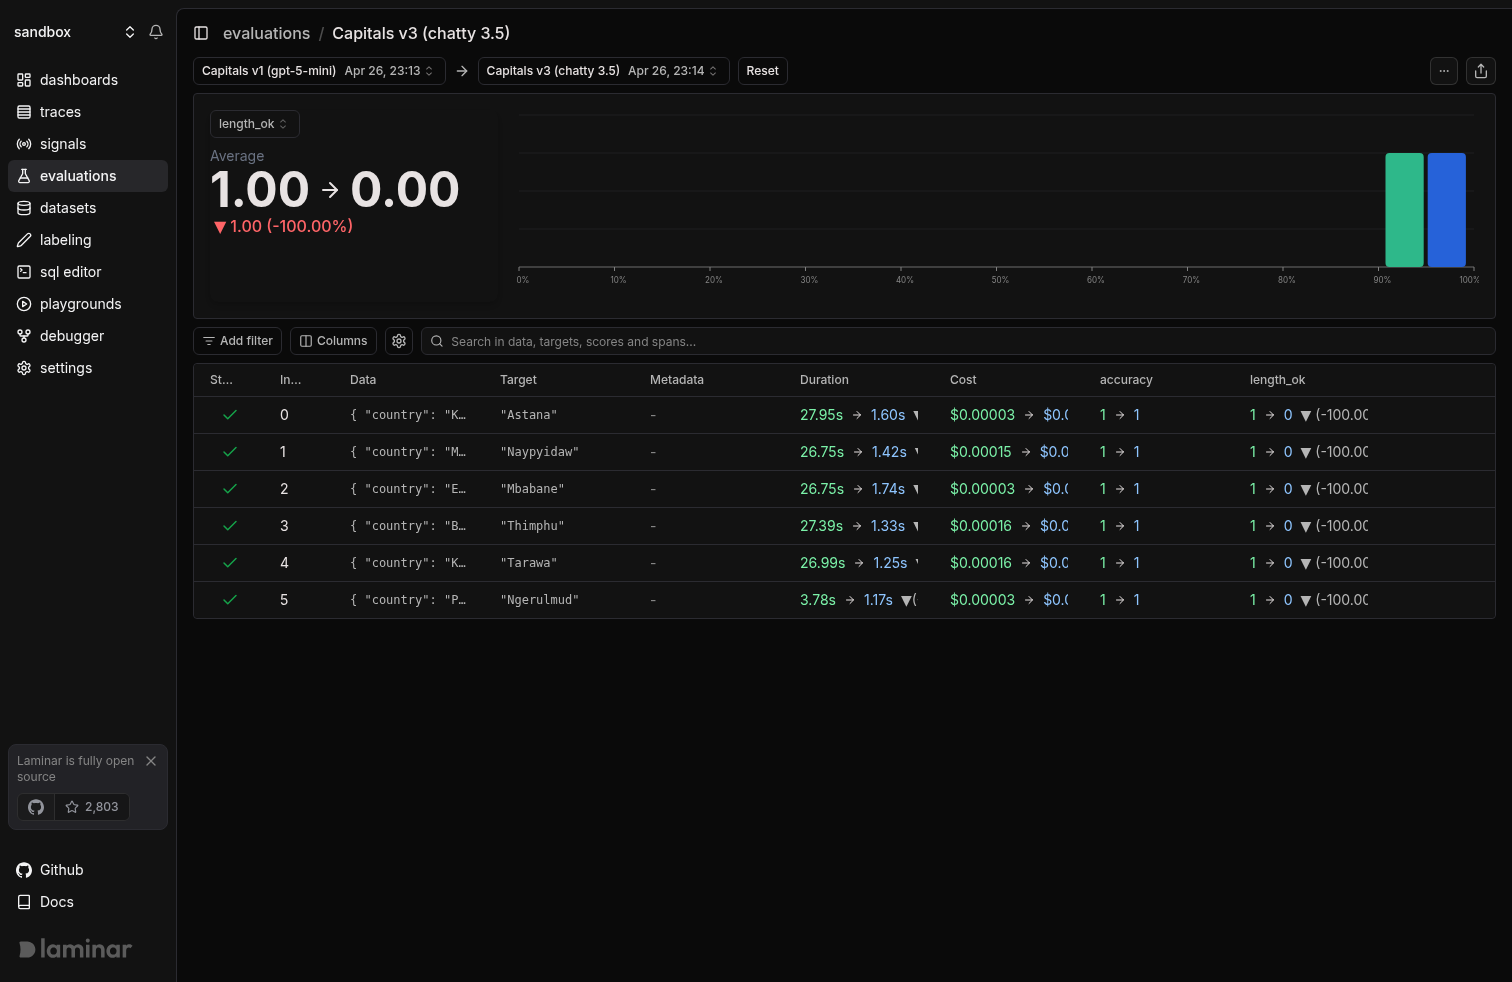
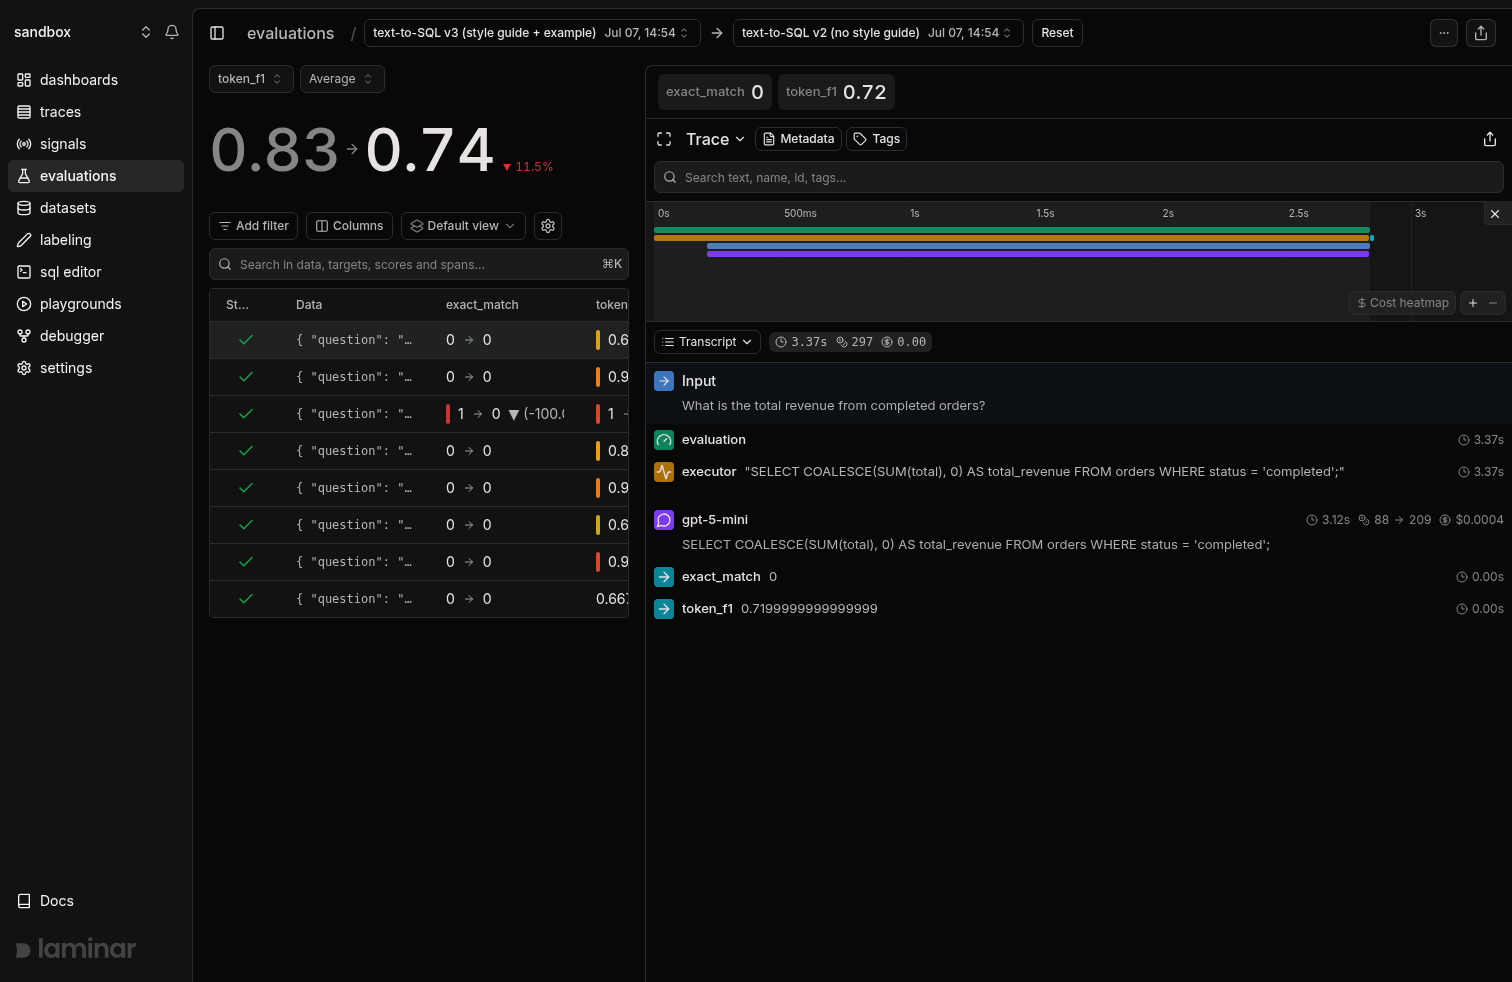
LAM-1921: update evals docs for new UI and trace render templates
- Rewrite comparing-runs for the new group page (groups sidebar,
  aggregation picker, legend toggles, eye icons) and the ?targetId
  compare flow (old -> new score card with delta badge, per-row deltas)
- Add trace-scoped render templates to platform/render-templates:
  span filter, {spans, truncated} payload, 256-span cap, and a worked
  text-to-SQL eval example that diffs model output against target
- Refresh quickstart for the split detail view with score chips
- Retake eval-list, eval-detail, eval-compare screenshots; add
  eval-custom-renderer, trace-view-dropdown, trace-template-dialog;
  drop stale eval-transcript
- Changelog entries for the evals UI refresh and trace templates

diff --git a/CLAUDE.md b/CLAUDE.md
@@ -143,7 +143,9 @@ This is a Mintlify site. Pages are `.mdx`, navigation lives in `docs.json`, reus
 - **Canonical evaluations layout** (under the `Evaluations` group in `docs.json`): `introduction`, `quickstart`, `concepts`, `comparing-runs`, `datasets`, `manual-evaluation`, `self-hosted`. The `human-evaluators.mdx` file still exists on disk and in the SDK but is hidden from the sidebar as of LAM-1505 phase 2 (leave the file; just keep it out of `docs.json` and remove inbound cross-links from the other evaluation pages).
 - **Manual API: TS and Python diverge on trace linking.** Python's `client.evals.update_datapoint` accepts `trace_id`, so the canonical pattern is `create_datapoint` (before the span opens, row visible in UI) → open `EVALUATION` span → `update_datapoint(scores={}, trace_id=Laminar.get_trace_id())` → run executor → `update_datapoint(executor_output, scores)`. TypeScript's `updateDatapoint` does NOT take `traceId` (verified in `@lmnr-ai/lmnr@0.8.20` dist): the only hook is `createDatapoint({..., traceId: Laminar.getTraceId()})` from inside the `EVALUATION` `observe` block. Don't write a TS example that passes `traceId` to `updateDatapoint`; it silently gets ignored.
 - **Python `save_datapoints` requires full `EvaluationResultDatapoint` objects, not dicts** — includes mandatory `id`, `trace_id`, and `executor_span_id` UUIDs. For backfills where those aren't meaningful, loop `create_datapoint` + `update_datapoint` per row instead of calling `save_datapoints` directly. TS `saveDatapoints` takes a looser shape but is still the path for bulk writes when you already have a trace_id per row.
-- **Compare-view capture**: the `?comparedEvaluationId=<uuid>` URL param is NOT respected on direct load; the page redirects to the group list. To capture the comparison view, navigate to the single-evaluation detail page first, then click the **Select compared evaluation** combobox (ref typically `e4` in `agent-browser snapshot`) and pick the other run from the dropdown. Switching the score-metric selector after compare is set works, but clicking it while a compare is active and re-selecting may detach the compared run — re-pick both if the view collapses back to the single-eval layout.
+- **Compare view (July 2026 UI)**: the compare param is `?targetId=<evaluation-uuid>` (the old `?comparedEvaluationId` is gone). Picking a run in the **Select compared evaluation** combobox writes the param; **Reset** clears it. Score card renders `old → new` with a ▲/▼ percent badge (`components/evaluation/run-score-card.tsx`; the aggregation picker is hidden for binary pass/fail distributions); every table row shows per-score `old → new` deltas. Compare selection does not survive navigating to the bare URL — re-pick via the combobox when capturing screenshots.
+- **Evals detail page (July 2026 UI)** is an always-open split: datapoint table left, trace pane right, score chips for the selected row above the trace. Aggregations: avg (default), sum, min, max, median, p90/p95/p99 (`components/evaluation/metrics-panel/utils.ts`). The group page (`/evaluations?groupId=<group-name>`) has a groups sidebar with run-count badges, a combined progression chart (one line per score, legend click-to-toggle), per-run eye icons to hide runs from the chart, and a Columns dialog whose rows include hidden `__row_selection`/`__chart_visibility` pseudo-columns with disabled switches — when automating, match by `span[title='<Name>']`, not row index.
+- **Trace render templates**: `render_templates` Postgres table has `type` ('span'|'trace') and `where_clause`. Trace templates live in the trace pane's view dropdown (DEFAULT Tree/Transcript + CUSTOM + "+ New template"); it's a cmdk menu whose items are NOT exposed as uids in a11y snapshots — click via `evaluate_script` on `[cmdk-item]` matched by `data-value` (`view:transcript`, `template:<uuid>`). The pane remembers the selected view (localStorage), so a template picked on one trace re-opens on the next; switch back to `view:transcript` explicitly before capturing default-view screenshots. Payload (verified in `lmnr/frontend/lib/actions/trace/render-data.ts`): `{ spans, truncated }`, max 256 spans ordered by start_time, each `{spanId, parentSpanId, name, path, spanType, startTime, endTime, status, model, input, output, attributes}` with input/output/attributes JSON-parsed when possible; `where_clause` is appended verbatim as `AND (...)` to `SELECT * FROM spans WHERE trace_id = <id>`.
 - **Span schema** every datapoint produces: `EVALUATION` root → `EXECUTOR` child → any auto-instrumented LLM/tool spans → one `EVALUATOR` span per scoring function. `HumanEvaluator()` produces a `HUMAN_EVALUATOR` span. All are queryable via `spans` with `evaluation_id = '<uuid>'`.
 - **Storage split**: Postgres `evaluations` holds one row per run (name, group, metadata); ClickHouse `evaluation_datapoints` holds one row per datapoint (`data`, `target`, `metadata`, `executor_output`, `scores`, `trace_id`, duration, cost). `evaluation_datapoints.scores` is a `Map(String, Float64)`, queryable as `ed.scores['accuracy']` in SQL.
 - **Voice template for new evaluation pages**: follow `signals/introduction.mdx`. Open with a bold thesis sentence containing 2-3 inline links (e.g. `**[compares them](/evaluations/comparing-runs) across [runs](/evaluations/concepts) and [groups](...)**`). Use italics for rhetorical hypotheticals (`*is this version better*`). Put the primary `<Frame>` image right after the opener, not after multiple sections. Close with `<CardGroup cols={2}>` (four cards, two wide), not a bullet list.